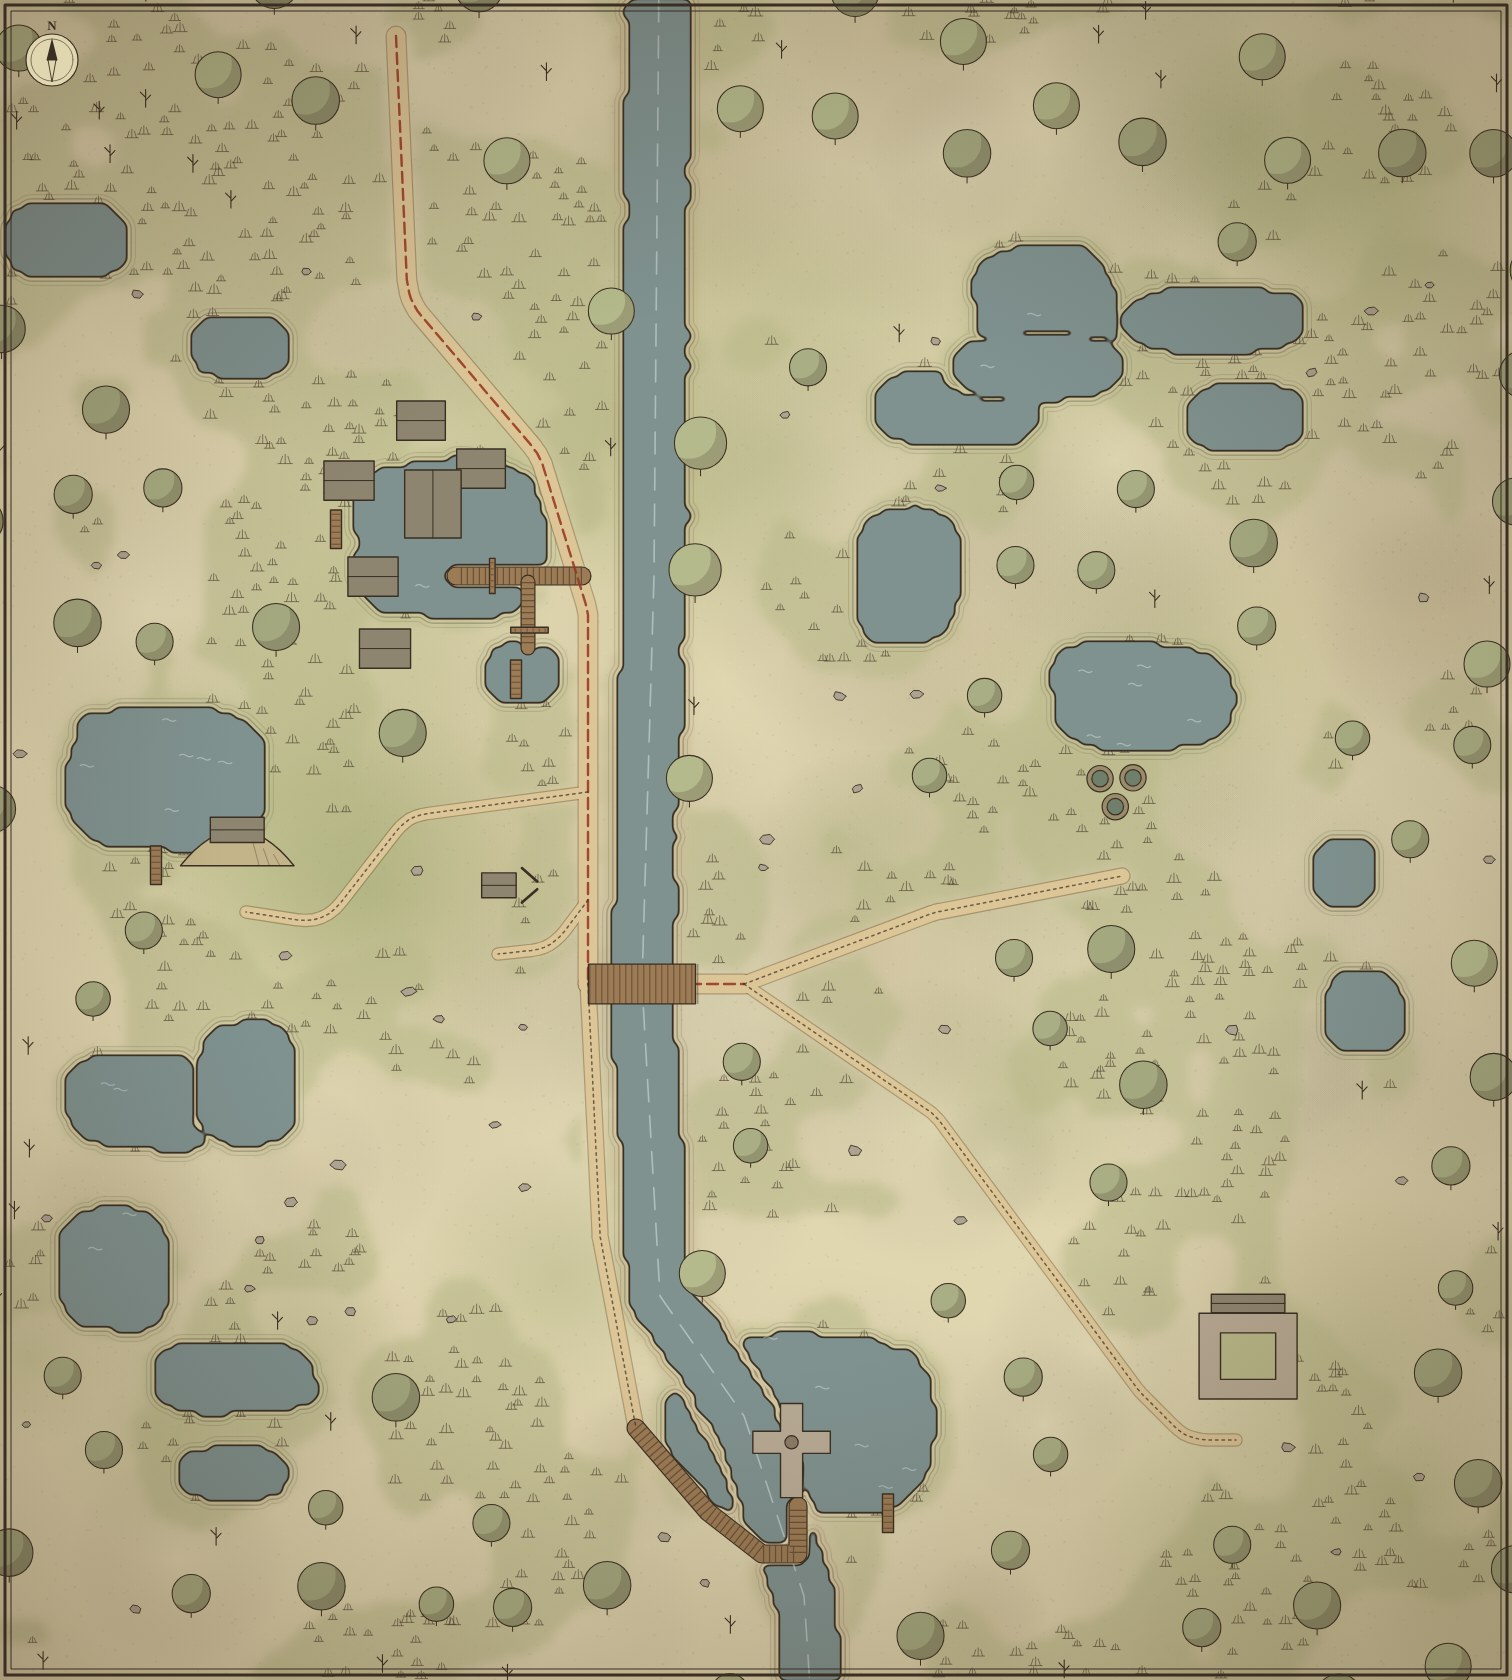
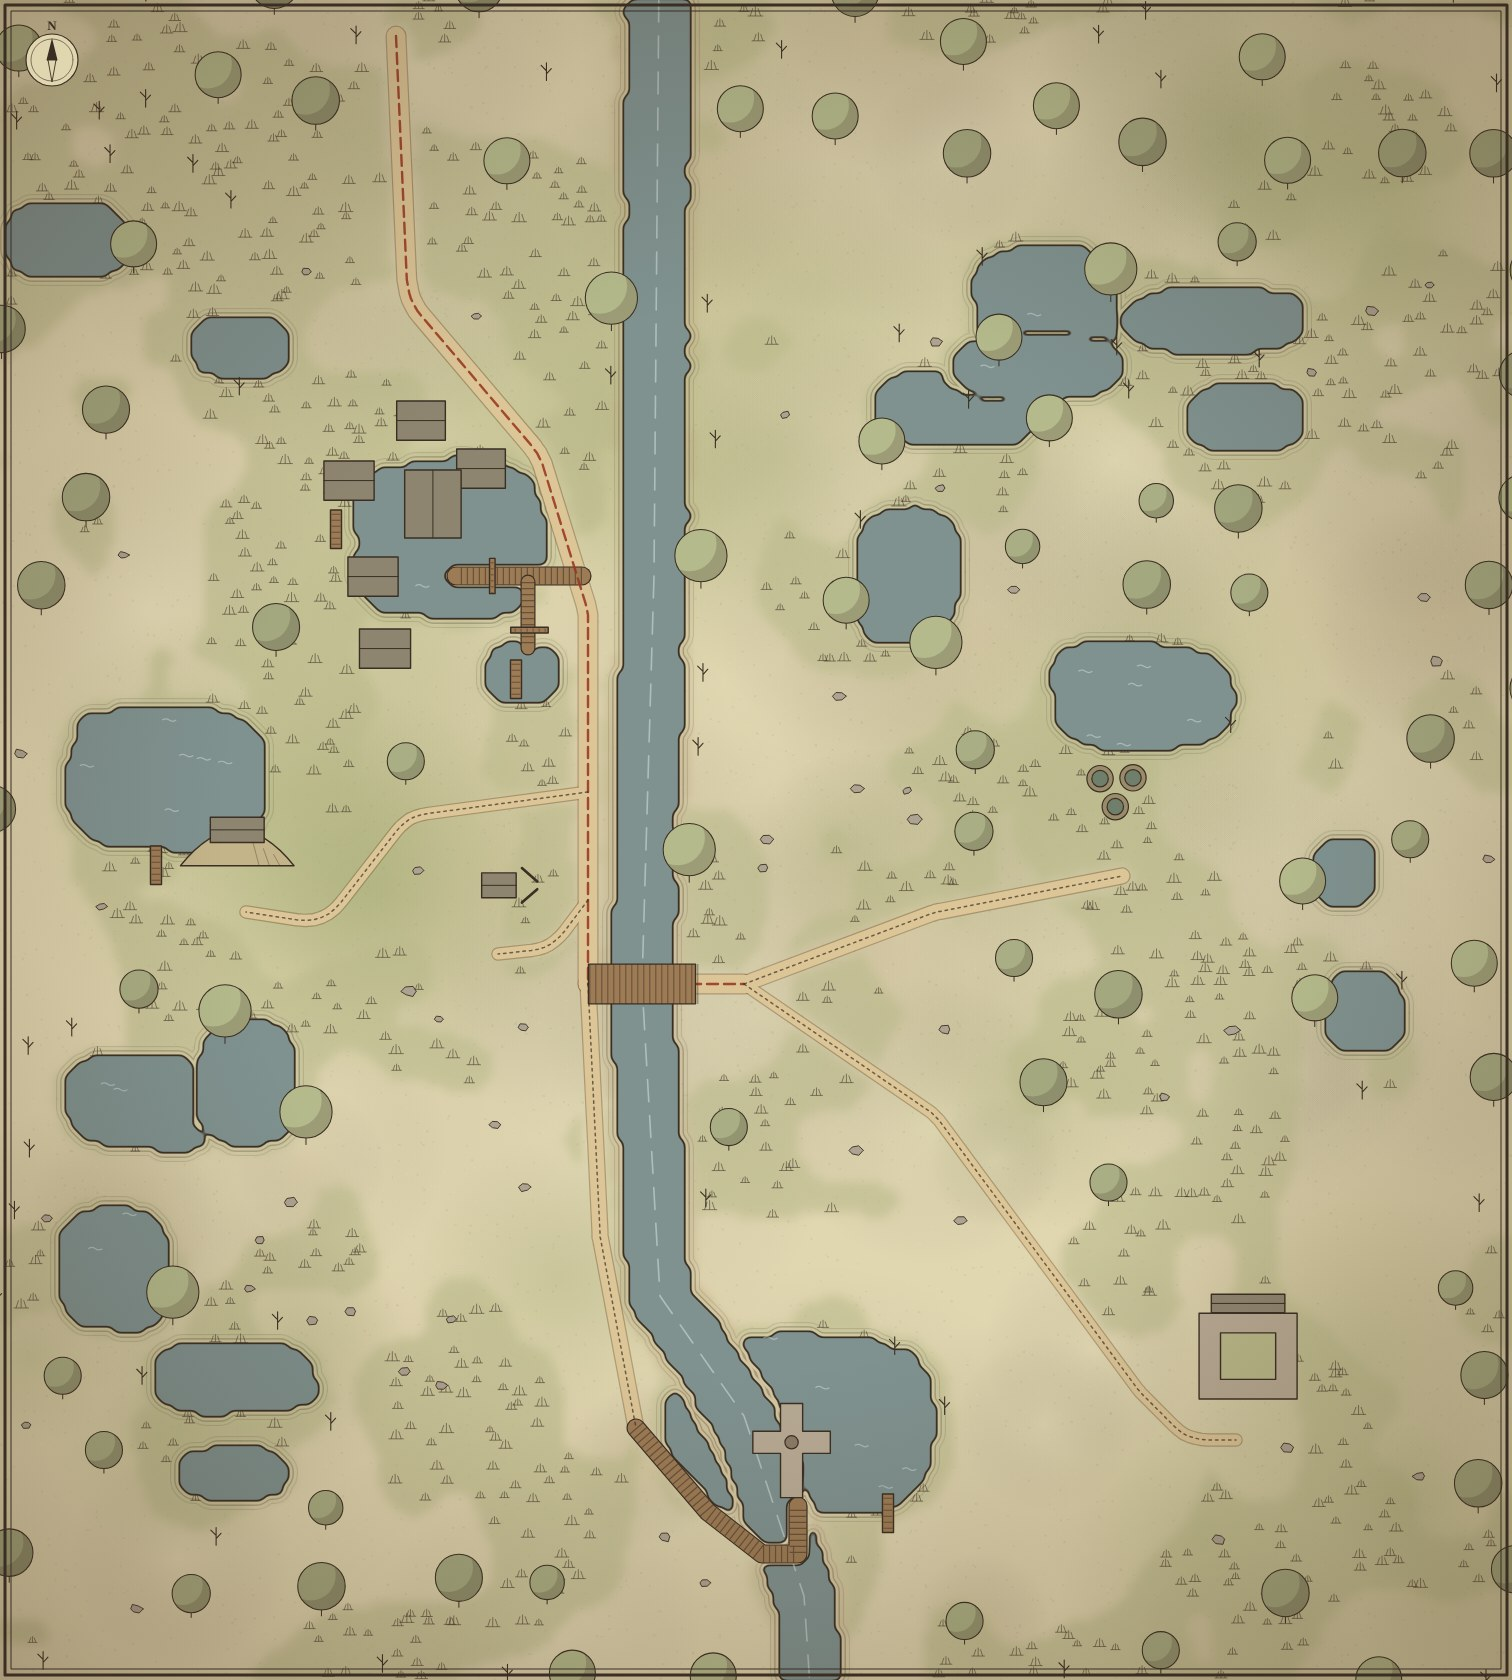
Chests in view: none behind a near wall; the Fens' pool edges planted again
- The owner, 2026-11-11: "Chests should always be visible to the player
  not tucked against a southern wall so you can barely see the top". The
  camera looks from the south-east, so a wall on a chest's near side (+x,
  +y, within two tiles) showed its lid at most. A last pass (world.js
  seeChests) moves any such chest to the nearest free, reachable tile of
  its room clear there; a vault's key goes with it; no draw, so nothing
  else on a floor moves. Every site's floors, four seeds: 86 of 195
  chests had a wall there before, 0 after (test/chestview.test.mjs). The
  shrines have kept this rule since 2026-10-01.
- A fix of mine: in 885486d a comment swallowed the call that plants the
  willows and the dead round the Fens' pools, so only the canal's banks
  had them. Planted again: 15 willows and 24 dead at the water's edge;
  the thickets' threshold 0.61 -> 0.67 to keep the land's cover in its
  band (23.1 %, the Vale 26.4 %). Maps redrawn.

Claude-Session: https://claude.ai/code/session_015iJE9saRx1hCYJHRMUYeGn

diff --git a/src/sim/world.js b/src/sim/world.js
@@ -434,6 +434,7 @@ export function createWorld(seed, theme, depth = 0, site = 'barrows') {
   const reach = keepTheWaysOpen(world, level);
   pruneUnreachable(world, reach);
   if (![...world.props.values()].includes('chest')) placeOneChest(world, level, keep, reach);
+  seeChests(world, level, reach);
 
   // Enemies arrive in waves when the party enters a room (battle.js). Each room has a
   // fixed level: the further you walk from the entrance, the harder it is.
@@ -499,6 +500,31 @@ function NONWALK_OK(world, x, y) { return !NONWALK.has(materialAt(world, x, y));
 // Chronicle fragment in the hall while Ilse's errand said "the chests on the first floor"). One goes against a wall
 // of a fighting room you can walk to, clear of the doorways and the furniture, drawn on the keep stream: every
 // floor that kept a chest is the same as before.
+// A chest is seen whole (the owner, 2026-11-11: "Chests should always be visible to the player not tucked against a
+// southern wall so you can barely see the top"; level-design-rules.md §4.4): the camera looks from the south-east, so a
+// wall on a chest's near side (+x, +y, within two tiles) stood between them and showed its lid at most, as it had a
+// shrine's (whose placement has kept the near side clear since 2026-10-01). Every chest placed (a room's plan, the
+// dressing, a floor's one at least) is moved, if it must be, to the nearest free tile of its room that's clear there and
+// reachable; a vault's key goes with it. No draw: nothing else on the floor moves.
+/** is the near side of a tile open (+x, +y: toward the camera), two tiles out? */
+export const nearClear = (level, x, y) => [[1, 0], [2, 0], [0, 1], [0, 2], [1, 1], [2, 1], [1, 2]].every(([dx, dy]) => { const c = level.cells.get(K(x + dx, y + dy)); return !!c && c.kind === 'floor'; });
+function seeChests(world, level, reach) {
+  for (const [k, kind] of [...world.props]) {
+    if (kind !== 'chest') continue;
+    const [x, y] = k.split(',').map(Number), c0 = level.cells.get(k);
+    if (!c0 || nearClear(level, x, y)) continue;
+    let best = null, bd = Infinity;
+    for (const [q, c] of level.cells) {
+      if (c.kind !== 'floor' || c.corridor || c.room !== c0.room || world.props.has(q)) continue;
+      const [tx, ty] = q.split(',').map(Number), d = (tx - x) * (tx - x) + (ty - y) * (ty - y);
+      if (d >= bd || !reach(tx, ty) || !NONWALK_OK(world, tx, ty) || resourceAt(world, tx, ty) || !nearClear(level, tx, ty)) continue;
+      bd = d; best = q;
+    }
+    if (!best) continue;                                          // (no such tile in the room: it stays)
+    world.props.delete(k); world.props.set(best, 'chest');
+    if (world.vault && world.vault.key === k) world.vault.key = best;
+  }
+}
 function placeOneChest(world, level, keep, reach) {
   const floorAt = (x, y) => { const c = level.cells.get(K(x, y)); return !!c && c.kind === 'floor'; };
   const spots = [], loose = [], ent = level.entrance ? level.entrance.id : -1;

diff --git a/src/sim/outdoor.js b/src/sim/outdoor.js
@@ -242,8 +242,9 @@ function waterEdge(o, keepOut) {
     if (fitsOver(id, x, y)) put(o, id, x, y, 'round', 0.35);
   };
   for (const q of o.pools) for (let a = rng() * 0.6; a < Math.PI * 2; a += 0.42 + rng() * 0.3) {
-    if (rng() > 0.7) continue;
-    const k = 1 + (1.5 + rng() * 1.5) / Math.max(q.rx, q.ry);   // (the trunk a tile and a half to three out: at the edge, the art critic) plant(q.cx + cos(a) * q.rx * k, q.cy + sin(a) * q.ry * k);
+    if (rng() > 0.3) continue;
+    const k = 1 + (1.5 + rng() * 1.5) / Math.max(q.rx, q.ry);   // (the trunk a tile and a half to three out: at the edge, the art critic)
+    plant(q.cx + cos(a) * q.rx * k, q.cy + sin(a) * q.ry * k);
   }
   for (const r of o.rivers) for (let i = 1; i < r.pts.length; i++) {
     const [ax, ay] = r.pts[i - 1], [bx, by] = r.pts[i], L = hypot(bx - ax, by - ay), nx = -(by - ay) / L, ny = (bx - ax) / L;
@@ -546,9 +547,9 @@ function buildFens(seed) {
     const n = fbm(x * 0.03, y * 0.03, o.seed + 41), out = Math.max(-x, x - 240, -y, y - 240);
     if (out > 0) return rng() < 0.8 ? pick(rng, ['carr_1', 'carr_2', 'dead_1', 'willow_1']) : null;
     // (level-design-rules.md §3.6, the foliage pass: the willows and the dead at the water's edge and off the marsh; a
-    // thicket's alders and carr on the raised ground. The same draws as before, only the kind they come out as)
+    // thicket's alders and carr on the raised ground. The same draws as before, only the kind they come out as; the thicket at 0.67 of the noise, 0.61 before the pools' edges were planted: cover 23 %)
     const g = groundAt(o, x, y).g, edge = g !== G.MARSH && waterNear(o, x, y, 8);   // (8: a willow's crown is 7 across, and stands back from the water it leans over)
-    const id = n > 0.61 ? pick(rng, edge ? ['willow_1', 'willow_2', 'alder_1', 'willow_2', 'dead_1'] : ['alder_1', 'alder_2', 'alder_3', 'carr_1', 'carr_2']) : rng() < (edge ? 0.12 : 0.05) ? pick(rng, ['dead_1', 'dead_2']) : null;
+    const id = n > 0.67 ? pick(rng, edge ? ['willow_1', 'willow_2', 'alder_1', 'willow_2', 'dead_1'] : ['alder_1', 'alder_2', 'alder_3', 'carr_1', 'carr_2']) : rng() < (edge ? 0.12 : 0.05) ? pick(rng, ['dead_1', 'dead_2']) : null;
     return id && /willow|dead/.test(id) && !edge ? null : id;
   });
   forestRing(o, rng, 6, FENS_CLUSTER, FENS_SINGLE);

diff --git a/docs/level-design-rules.md b/docs/level-design-rules.md
@@ -398,6 +398,15 @@ floors hold 4 % fewer pieces and 9 % fewer lights (901 → 819: the ones that st
 
 ![Two floors' ways up at dusk, before and after: the Old Barrows' second floor (a shelf of urns by the stair, a brazier out in the room) and Wickham Keep's first (torches on and against the stair, a brazier in the open)](img/dungeon/keepclear-before-after.jpg)
 
+**A chest is seen whole** (the owner, 2026-11-11: *"Chests should always be visible to the player not tucked against a
+southern wall so you can barely see the top"*). The camera looks from the south-east, so a wall on a chest's near side
+(+x, +y, within two tiles) showed its lid at most. That's the rule the shrines have kept since 2026-10-01.
+- **How:** every chest (a room's plan, the dressing, a floor's one at least) is moved, if it must be, to the nearest free
+  tile of its room that's clear there and reachable (`world.js` `seeChests`, `nearClear`). A vault's key goes with it.
+  No draw, so nothing else on the floor moves.
+- **Measured** (every site's floors, four seeds): 86 of 195 chests had a wall on their near side before; 0 after.
+- **Test:** `test/chestview.test.mjs`.
+
 ### 4.5 The kits: each place's brief
 
 | Kit | The place | Its pieces (back walls · clusters · set piece · obstacles) | Its light |
